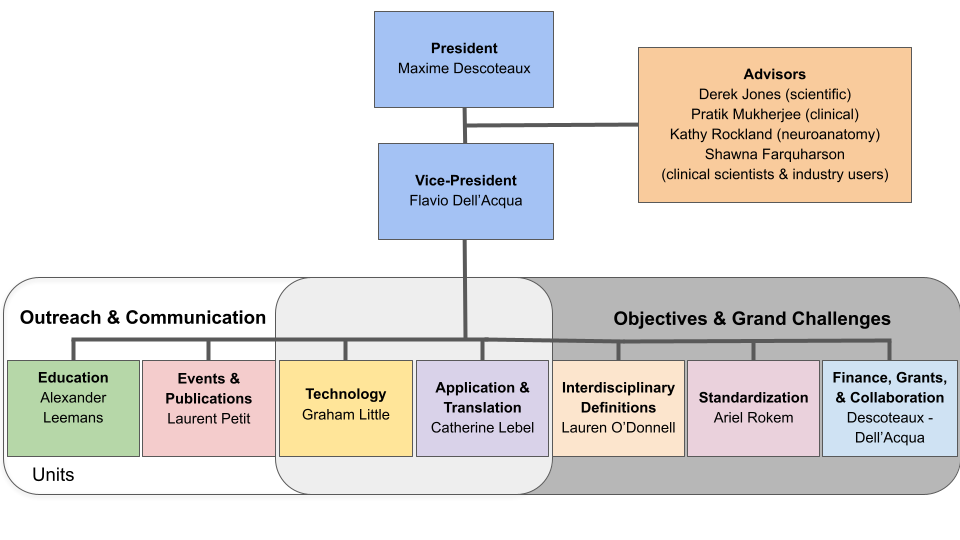
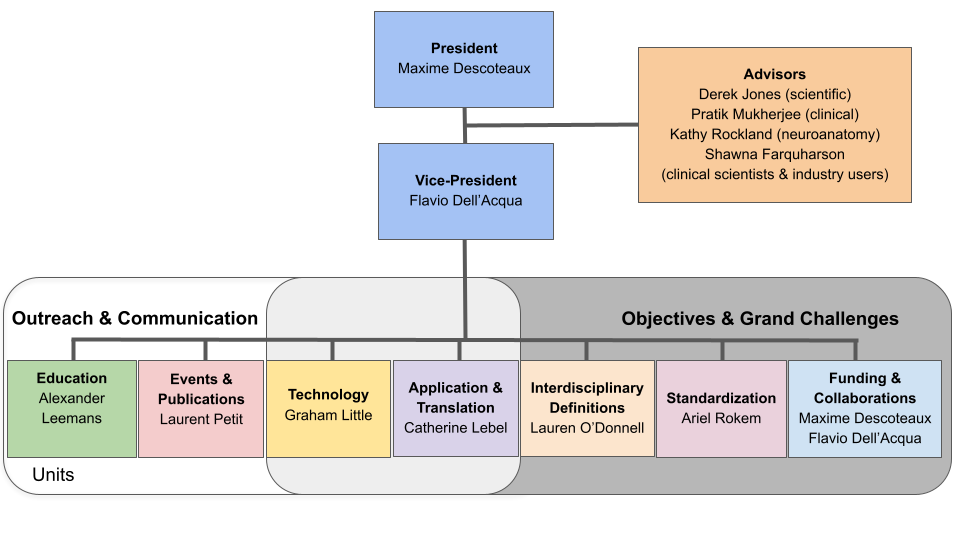
updated org chart

Changed region(s): [[0.0, 0.5037, 1.0, 0.9185], [0.2812, 0.5037, 0.3125, 0.563], [0.2812, 0.8889, 0.3125, 0.9185]]

diff --git a/content/en/scientific_committee.md b/content/en/scientific_committee.md
@@ -6,7 +6,7 @@ title: Scientific Committee
 <center>
 <h2>Scientific Committee</h2>
 
-The International Society for Tractography aims to bring together world leading experts spanning a wide range of scientific disciplines while training the next generation of interdisciplinary informed researchers. The goal is to accelerate advancements in the field of tractography that would otherwise not happen at the individual/local level.  To do this the society has adopted an organizational structure for the scientific committee to "get things done" where individual units are ultimately responsible for fundamental aspects of the society's larger scientific goals. The structure and people in charge can be found below.
+The society has adopted an organizational structure for the scientific committee to “get things done” and achieve our larger scientific goals, where individual units are ultimately responsible for its own specific objectives. The structure and people in charge can be found below.
 
 ![](/uploads/photos/org_chart.png)
 
@@ -108,7 +108,7 @@ The International Society for Tractography aims to bring together world leading 
 
 |<center><table><tr><td><img src="/uploads/photos/avatars/Max_tractoball_finance.png" alt="Maxime Descoteaux"  height="auto" width=200 ></td><td><img src="/uploads/photos/avatars/Flavio_tractoball_finance.png" alt="Laurent Petit"  height="auto" width=200 ></td><tr></table></center>|
 |:----:|
-|<b> Finance, Grants & Collaboration  </b>|
+|<b> Funding & Collaborations  </b>|
 |Unit Leads: Maxime Descoteaux &|
 |Flavio Dell'Acqua|
 |<details> <summary> Responsibilities </summary> <div> The Finance and Grant Unit is focused on garnering support for the society through sponsorship and cross-discipline / cross-border funding opportunities. These objectives include grants related to network building, interdisciplinary training and large scale scientific projects.  </div></details>|
